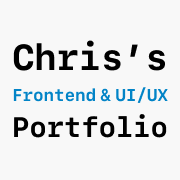
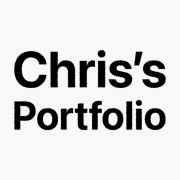
更新 README

Changed region(s): [[0.0556, 0.2222, 0.9444, 0.7778]]

diff --git a/src/components/AppNavbar.vue b/src/components/AppNavbar.vue
@@ -4,10 +4,10 @@
     :class="isIOSSafari ? 'bottom-[4px]' : 'bottom-5'"
   >
     <div
-      class="w-fit mx-auto flex flex-row justify-center items-center gap-2 p-1 bg-neutral-100/40 dark:bg-black/40 backdrop-blur-sm inset-shadow-sm rounded-full border border-black/5 dark:border-white/10"
+      class="w-fit mx-auto flex flex-row justify-center items-center gap-2 p-1 bg-neutral-100/40 dark:bg-black/40 backdrop-blur-sm rounded-full border border-black/5 dark:border-white/10"
     >
       <ul
-        class="w-fit flex flex-row justify-center p-0.5 bg-neutral-200/20 dark:bg-black/20 backdrop-blur-sm inset-shadow-sm rounded-full border border-black/5 dark:border-white/10"
+        class="w-fit flex flex-row justify-center p-0.5 bg-neutral-200/20 dark:bg-black/20 backdrop-blur-sm rounded-full border border-black/5 dark:border-white/10"
       >
         <li v-for="item in navItems" :key="item.to">
           <RouterLink

diff --git a/README.md b/README.md
@@ -2,7 +2,7 @@
 
 這是一個使用 Vue 3、Vite 與 Tailwind CSS 開發的個人作品集網站，並透過 Supabase 進行資料庫的串接管理。用於展示個人的專案作品介紹、設計理念與網站等作品相關連結。
 
-**網站:** https://chenchienlung.com
+**網站:** https://chenchienlung.com/
 
 ![PORTFOLIO](https://res.cloudinary.com/dtzgfwzwf/image/upload/v1775113920/favicon_jl5wvk.png)
 
@@ -19,15 +19,19 @@
 - **作品圖庫**: [Cloudinary](https://cloudinary.com/)
 - **路由管理**: [Vue Router](https://router.vuejs.org/)
 - **型別定義**: [TypeScript](https://www.typescriptlang.org/)
-- **圖示庫**: [FontAwesome](https://fontawesome.com/) [theSVG](https://www.thesvg.org/)
+- **圖示庫**: [FontAwesome](https://fontawesome.com/) | [theSVG](https://www.thesvg.org/)
 - **動態效果**: AOS - Animate On Scroll Library
+
+## 部署
+
+- **網域註冊**: [Cloudflare Registrar](https://cloudflare.com/)
 - **部署**: [Cloudflare Pages](https://pages.cloudflare.com/)
 
 ## 特色與架構
 
 - **動態內容讀取**: 所有的專案內容，包括標題、設計理念介紹 (支援圖文左右交錯排版)、標籤以及各式外部連結等，皆由 Supabase 動態請求並渲染。
 - **模組化元件**: 利用 Vue 元件化特性將介面拆分 (例如 `ProjectCard.vue`, `ProjectDetail.vue`, `ProjectLinks.vue` 等)，達到高重用性與易維護性。
-- **響應式設計 (RWD)**: 透過 Tailwind CSS 實作各種螢幕尺寸的響應式介面，確保手機及桌面端的良好瀏覽體驗。
+- **響應式設計 (RWD)**: 透過 Tailwind CSS 快速實作各種螢幕尺寸的響應式介面，確保手機及桌面端的良好瀏覽體驗。
 - **深色模式**: 支援 light / dark 模式切換。
 
 ## 截圖
@@ -36,11 +40,11 @@
 
 #### light
 
-<img src="https://res.cloudinary.com/dtzgfwzwf/image/upload/v1776576421/deaktop_Project_light_mllzap.png" style="width: 480px; height: auto;" hspace="5"><img src="https://res.cloudinary.com/dtzgfwzwf/image/upload/v1776576419/deaktop_Detail_light_yv2dkr.png" style="width: 480px; height: auto;" hspace="5">
+<img src="https://res.cloudinary.com/dtzgfwzwf/image/upload/v1779077457/deaktop_Detail_light_yv2dkr.png" style="width: 480px; height: auto;" hspace="5"><img src="https://res.cloudinary.com/dtzgfwzwf/image/upload/v1779077483/deaktop_Project_light_mllzap.png" style="width: 480px; height: auto;" hspace="5">
 
 #### dark
 
-<img src="https://res.cloudinary.com/dtzgfwzwf/image/upload/v1776576419/deaktop_Project_dark_fbz3fu.png" style="width: 480px; height: auto;" hspace="5"><img src="https://res.cloudinary.com/dtzgfwzwf/image/upload/v1776576418/deaktop_Detail_dark_d3hbqu.png" style="width: 480px; height: auto;" hspace="5">
+<img src="https://res.cloudinary.com/dtzgfwzwf/image/upload/v1779077470/deaktop_Project_dark_fbz3fu.png" style="width: 480px; height: auto;" hspace="5"><img src="https://res.cloudinary.com/dtzgfwzwf/image/upload/v1779077493/deaktop_Detail_dark_d3hbqu.png" style="width: 480px; height: auto;" hspace="5">
 
 ### Mobile
 